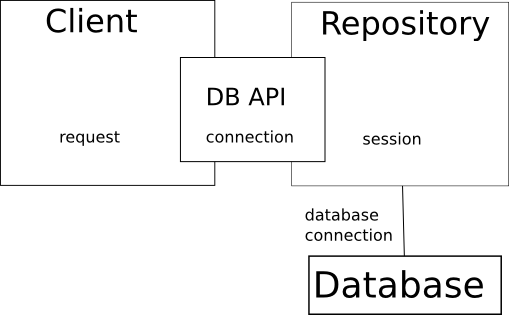
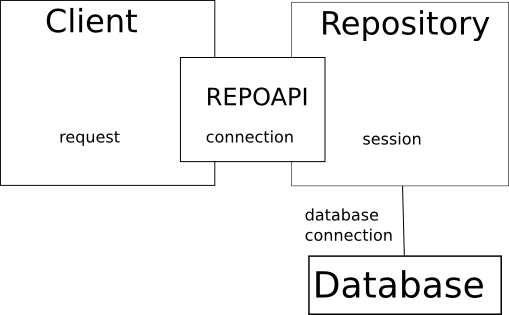
[book] Update documentation for new repoapi
Quite a few things change in 3.19:

- repoapi instead of dbapi
- ClientConnection / Connection / Session rework
- web authentication process
- test APIs

Closes #3638793

Changed region(s): [[0.4126, 0.2571, 0.6189, 0.3429]]

diff --git a/devtools/testlib.py b/devtools/testlib.py
@@ -39,8 +39,9 @@ from logilab.common.decorators import cached, classproperty, clear_cache, iclass
 from logilab.common.deprecation import deprecated, class_deprecated
 from logilab.common.shellutils import getlogin
 
-from cubicweb import ValidationError, NoSelectableObject, AuthenticationError
-from cubicweb import cwconfig, dbapi, devtools, web, server, repoapi
+from cubicweb import (ValidationError, NoSelectableObject, AuthenticationError,
+                      ProgrammingError)
+from cubicweb import cwconfig, devtools, web, server, repoapi
 from cubicweb.utils import json
 from cubicweb.sobjects import notification
 from cubicweb.web import Redirect, application
@@ -156,7 +157,7 @@ cwconfig.SMTP = MockSMTP
 
 
 class TestCaseConnectionProxy(object):
-    """thin wrapper around `cubicweb.dbapi.Connection` context-manager
+    """thin wrapper around `cubicweb.repoapi.ClientConnection` context-manager
     used in CubicWebTC (cf. `cubicweb.devtools.testlib.CubicWebTC.login` method)
 
     It just proxies to the default connection context manager but
@@ -260,7 +261,7 @@ class CubicWebTC(TestCase):
     * `vreg`, the vregistry
     * `schema`, self.vreg.schema
     * `config`, cubicweb configuration
-    * `cnx`, dbapi connection to the repository using an admin user
+    * `cnx`, repoapi connection to the repository using an admin user
     * `session`, server side session associated to `cnx`
     * `app`, the cubicweb publisher (for web testing)
     * `repo`, the repository object
@@ -436,7 +437,7 @@ class CubicWebTC(TestCase):
     def rollback(self):
         try:
             self.cnx.rollback()
-        except dbapi.ProgrammingError:
+        except ProgrammingError:
             pass # connection closed
         finally:
             self.session.set_cnxset() # ensure cnxset still set after commit
@@ -667,14 +668,13 @@ class CubicWebTC(TestCase):
 
           .. sourcecode:: python
 
-                rdef = self.schema['CWUser'].rdef('login')
                 with self.temporary_permissions(CWUser={'read': ()}):
                     ...
 
-        Usually the former will be prefered to override permissions on a
+        Usually the former will be preferred to override permissions on a
         relation definition, while the latter is well suited for entity types.
 
-        The allowed keys in the permission dictionary depends on the schema type
+        The allowed keys in the permission dictionary depend on the schema type
         (entity type / relation definition). Resulting permissions will be
         similar to `orig_permissions.update(partial_perms)`.
         """

diff --git a/doc/book/en/devrepo/testing.rst b/doc/book/en/devrepo/testing.rst
@@ -466,29 +466,26 @@ What you need to know about request and session
 First, remember to think that some code run on a client side, some
 other on the repository side. More precisely:
 
-* client side: web interface, raw db-api connection (cubicweb-ctl shell for
+* client side: web interface, raw repoapi connection (cubicweb-ctl shell for
   instance);
 
 * repository side: RQL query execution, that may trigger hooks and operation.
 
-The client interact with the repository through a db-api connection.
+The client interacts with the repository through a repoapi connection.
 
 
-A db-api connection is tied to a session in the repository. The connection and
+A repoapi connection is tied to a session in the repository. The connection and
 request objects are unaccessible from repository code / the session object is
-unaccessible from client code (theorically at least).
+unaccessible from client code (theoretically at least).
 
-The :mod:`cubicweb.dbapi` module provides a base request class. The web interface
-provides an extended request class.
-
-
-The `request` object provides access to all cubicweb resources, eg:
+The web interface provides a request class.  That `request` object provides
+access to all cubicweb resources, eg:
 
 * the registry (which itself provides access to the schema and the
   configuration);
 
-* an underlying db-api connection (when using req.execute, you actually call the
-  db-api);
+* an underlying repoapi connection (when using req.execute, you actually call the
+  repoapi);
 
 * other specific resources depending on the client type (url generation according
   to base url, form parameters, etc.).
@@ -510,37 +507,32 @@ responsibilities:
 The `_cw` attribute
 ```````````````````
 The `_cw` attribute available on every application object provides access to all
-cubicweb resources, eg:
+cubicweb resources, i.e.:
 
-For code running on the client side (eg web interface view), `_cw` is a request
-instance.
+- For code running on the client side (eg web interface view), `_cw` is a request
+  instance.
 
-For code running on the repository side (hooks and operation), `_cw` is a session
-instance.
+- For code running on the repository side (hooks and operation), `_cw` is a
+  Connection or Session instance.
 
 
-Beware some views may be called with a session (eg notifications) or with a
-DB-API request. In the later case, see :meth:`use_web_compatible_requests` on
-:class:`Connection` instances.
+Beware some views may be called with a session (e.g. notifications) or with a
+request.
 
 
 Request, session and transaction
 ````````````````````````````````
 
-In the web interface, an HTTP request is handle by a single request, which will
-be thrown way once the response send.
+In the web interface, an HTTP request is handled by a single request, which will
+be thrown away once the response is sent.
 
-The web publisher handle the transaction:
+The web publisher handles the transaction:
 
 * commit / rollback is done automatically
 * you should not commit / rollback explicitly
 
-When using a raw db-api, you're on your own regarding transaction.
-
-On the other hand, db-api connection and session live from a user login to its logout.
-
-Because session lives for a long time, and database connections is a limited
-resource, we can't bound a session to its own database connection for all its
+Because a session lives for a long time, and database connections are a limited
+resource, we can't bind a session to its own database connection for all its
 lifetime. The repository handles a pool of connections (4 by default), and it's
 responsible to attribute them as needed.
 
@@ -550,13 +542,13 @@ Let's detail the process:
 
 2. the repository attributes a database connection to the session
 
-3. the repository's querier execute the query
+3. the repository's querier executes the query
 
 4. this query may trigger hooks. Hooks and operation may execute some rql queries
    through `_cw.execute`. Those queries go directly to the querier, hence don't
    touch the database connection, they use the one attributed in 2.
 
-5. the repository's get the result of the query in 1. If it was a RQL read query,
+5. the repository gets the result of the query in 1. If it was a RQL read query,
    the database connection is released. If it was a write query, the connection
    is then tied to the session until the transaction is commited or rollbacked.
 
@@ -567,11 +559,11 @@ This implies several things:
 * when using a request, or code executed in hooks, this database connection
   handling is totally transparent
 
-* however, take care when writing test: you are usually faking / testing both the
-  server and the client side, so you have to decide when to use self.request() /
-  self.session. Ask yourself "where the code I want to test will be running,
-  client or repository side ?". The response is usually : use a request :)
-  However, if you really need using a session:
+* however, take care when writing tests: you are usually faking / testing both the
+  server and the client side, so you have to decide when to use RepoAccess.client_cnx /
+  RepoAccess.repo_cnx. Ask yourself "where the code I want to test will be running,
+  client or repository side ?". The response is usually : use a client connection :)
+  However, if you really need using a server-side object:
 
   - commit / rollback will free the database connection (unless explicitly told
     not to do so).

diff --git a/doc/book/en/devrepo/repo/sessions.rst b/doc/book/en/devrepo/repo/sessions.rst
@@ -3,50 +3,47 @@
 Sessions
 ========
 
-Sessions are object carrying the `.execute` method to query the data
-sources.
+Sessions are objects linked to an authenticated user.  The `Session.new_cnx`
+method returns a new Connection linked to that session.
 
-Kinds of sessions
------------------
+Connections
+===========
 
-There are two kinds of sessions.
+Connections provide the `.execute` method to query the data sources.
 
-* `normal sessions` are the most common: they are related to users and
+Kinds of connections
+--------------------
+
+There are two kinds of connections.
+
+* `normal connections` are the most common: they are related to users and
   carry security checks coming with user credentials
 
-* `internal sessions` have all the powers; they are also used in only a
+* `internal connections` have all the powers; they are also used in only a
   few situations where you don't already have an adequate session at
   hand, like: user authentication, data synchronisation in
   multi-source contexts
 
-.. note::
-  Do not confuse the session type with their connection mode, for
-  instance : `in memory` or `pyro`.
-
-Normal sessions are typically named `_cw` in most appobjects or
+Normal connections are typically named `_cw` in most appobjects or
 sometimes just `session`.
 
-Internal sessions are available from the `Repository` object and are
+Internal connections are available from the `Repository` object and are
 to be used like this:
 
 .. sourcecode:: python
 
-   session = self.repo.internal_session()
-   try:
-       do_stuff_with(session)
-   finally:
-       session.close()
+   with self.repo.internal_cnx() as cnx:
+       do_stuff_with(cnx)
+       cnx.commit()
 
-.. warning::
-  Do not forget to close such a session after use for a session leak
-  will quickly lead to an application crash.
+Connections should always be used as context managers, to avoid leaks.
 
 Authentication and management of sessions
 -----------------------------------------
 
 The authentication process is a ballet involving a few dancers:
 
-* through its `connect` method the top-level application object (the
+* through its `get_session` method the top-level application object (the
   `CubicWebPublisher`) will open a session whenever a web request
   comes in; it asks the `session manager` to open a session (giving
   the web request object as context) using `open_session`
@@ -88,7 +85,7 @@ Writing authentication plugins
 ------------------------------
 
 Sometimes CubicWeb's out-of-the-box authentication schemes (cookie and
-http) are not sufficient. Nowadays there is a plethore of such schemes
+http) are not sufficient. Nowadays there is a plethora of such schemes
 and the framework cannot provide them all, but as the sequence above
 shows, it is extensible.
 
@@ -154,7 +151,7 @@ Web authentication plugins
 
 .. sourcecode:: python
 
- class XFooUserRetriever(authentication.LoginPasswordRetreiver):
+ class XFooUserRetriever(authentication.LoginPasswordRetriever):
      """ authenticate by the x-foo-user http header
      or just do normal login/password authentication
      """
@@ -200,7 +197,8 @@ preauthenticated or not.
          return 1
      return 0
 
-Full API Session
-~~~~~~~~~~~~~~~~~~~~~~~~~~
+Full Session and Connection API
+~~~~~~~~~~~~~~~~~~~~~~~~~~~~~~~
 
 .. autoclass:: cubicweb.server.session.Session
+.. autoclass:: cubicweb.server.session.Connection

diff --git a/doc/book/en/devweb/request.rst b/doc/book/en/devweb/request.rst
@@ -20,8 +20,6 @@ request objects (grouped by category):
 
   * `ie_browser`: tells if the browser belong to the Internet Explorer
     family
-  * `xhtml_browser`: tells if the browser is able to properly handle
-    XHTML (at the HTTP content_type level)
 
 * `User and identification`:
 
@@ -30,7 +28,8 @@ request objects (grouped by category):
 
 * `Session data handling`
 
-  * `session.data` is the dictionnary of the session data; it can be manipulated like an ordinary Python dictionnary
+  * `session.data` is the dictionary of the session data; it can be
+    manipulated like an ordinary Python dictionary
 
 * `Edition` (utilities for edition control):
 
@@ -104,8 +103,7 @@ request objects (grouped by category):
   * `get_header(header)`, returns the value associated to an arbitrary header
     of the HTTP request
   * `set_header(header, value)`, adds an arbitrary header in the response
-  * `cursor()` returns a RQL cursor on the session
-  * `execute(*args, **kwargs)`, shortcut to ``.cursor().execute()``
+  * `execute(*args, **kwargs)`, executes an RQL query and return the result set
   * `property_value(key)`, properties management (`CWProperty`)
   * dictionary `data` to store data to share informations between components
     *while a request is executed*
@@ -120,14 +118,14 @@ API
 ```
 
 The elements we gave in overview for above are built in three layers,
-from ``cubicweb.req.RequestSessionBase``, ``cubicweb.dbapi.DBAPIRequest`` and
-``cubicweb.web.CubicWebRequestBase``.
+from ``cubicweb.req.RequestSessionBase``, ``cubicweb.repoapi.ClientConnection`` and
+``cubicweb.web.ConnectionCubicWebRequestBase``.
 
 .. autoclass:: cubicweb.req.RequestSessionBase
    :members:
 
-.. autoclass:: cubicweb.dbapi.DBAPIRequest
+.. autoclass:: cubicweb.repoapi.ClientConnection
    :members:
 
-.. autoclass:: cubicweb.web.request.CubicWebRequestBase
+.. autoclass:: cubicweb.web.request.ConnectionCubicWebRequestBase
    :members:
